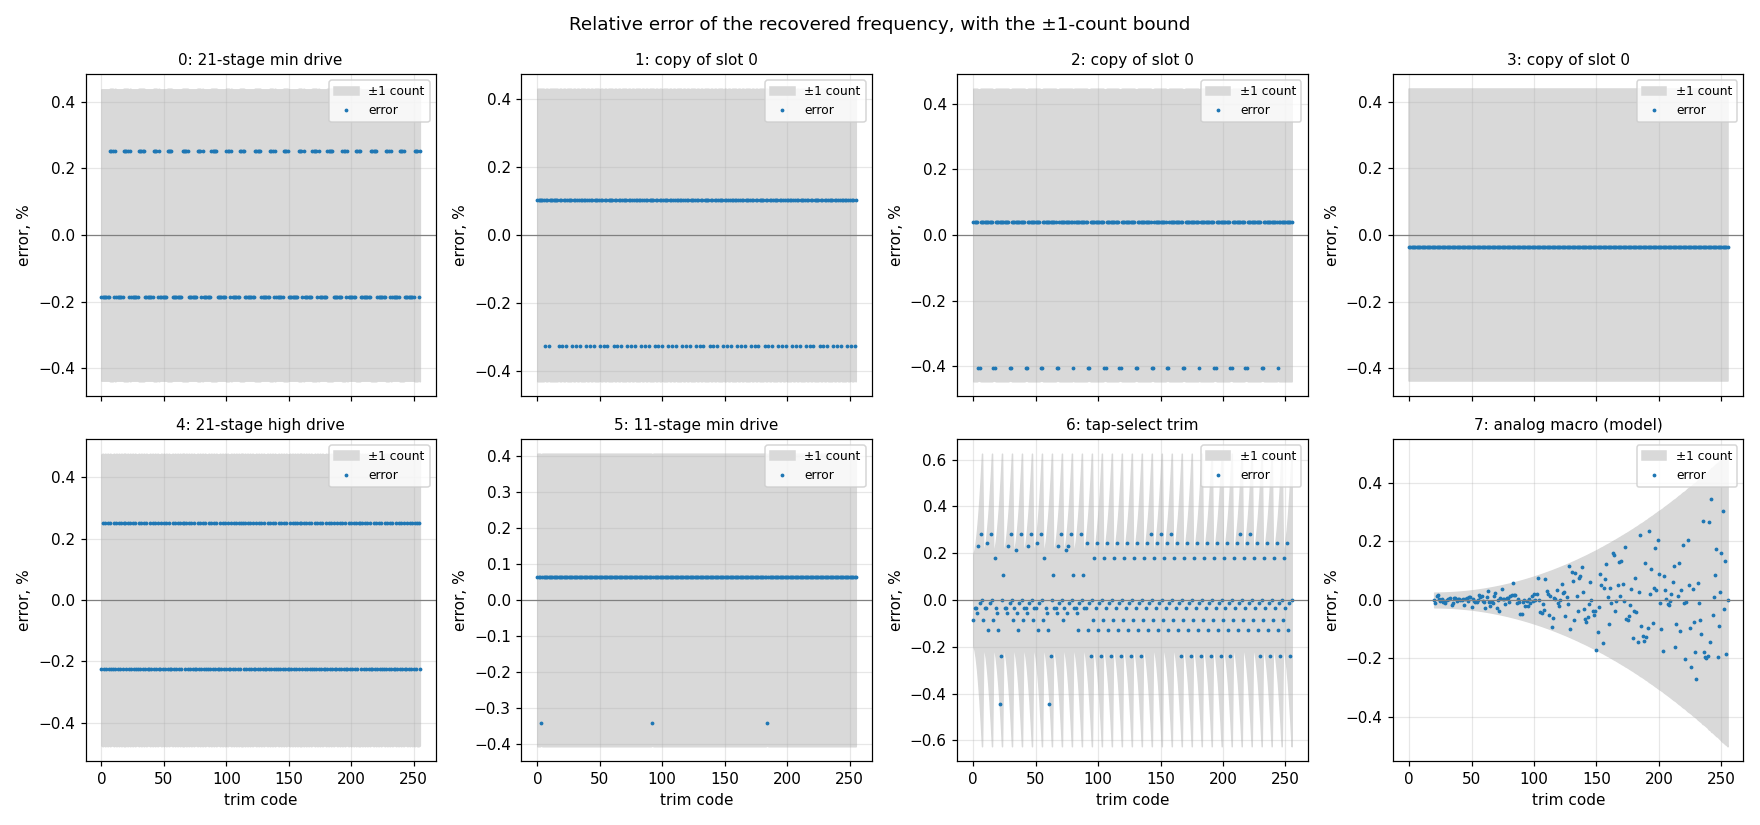
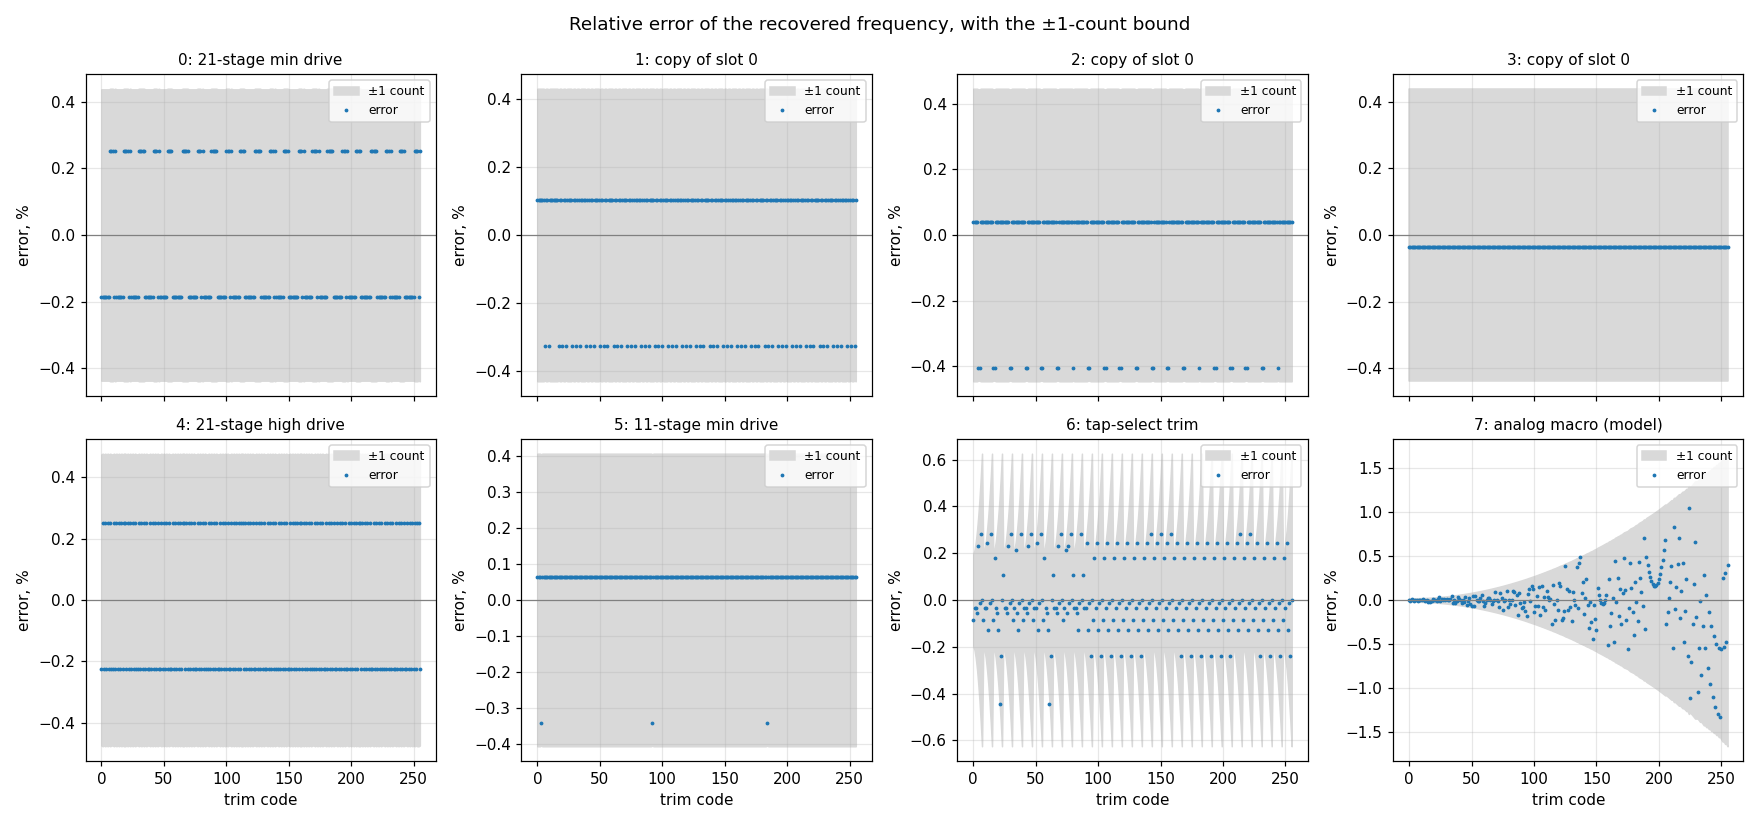
Verification scripts: low-frequency noise band, tempco units, re-analysis mode; layout notes on bias flicker; sweep plots for the macro model
Claude-Session: https://claude.ai/code/session_015Tacz89PxZ2SXmV2nwrvNE

Changed region(s): [[0.8125, 0.6364, 1.0, 0.8182]]

diff --git a/analog/verify/bias.py b/analog/verify/bias.py
@@ -103,6 +103,14 @@ noise v(vbp) Vdd dec 10 1k 1G
 setplot noise8
 let vbp_tot_1k = onoise_total
 echo "vbp_1kHz=$&vbp_tot_1k"
+noise v(vbn) Vdd dec 10 1k 1Meg
+setplot noise10
+let vbn_lf = onoise_total
+echo "vbn_lf=$&vbn_lf"
+noise v(vbp) Vdd dec 10 1k 1Meg
+setplot noise12
+let vbp_lf = onoise_total
+echo "vbp_lf=$&vbp_lf"
 .endc
 .end
 """
@@ -201,24 +209,28 @@ def main():
         log, d = res[f"noise_code{k}"]
         vbn1, vbn1k = C.meas(log, "vbn_1Hz"), C.meas(log, "vbn_1kHz")
         vbp1, vbp1k = C.meas(log, "vbp_1Hz"), C.meas(log, "vbp_1kHz")
+        vbnlf, vbplf = C.meas(log, "vbn_lf"), C.meas(log, "vbp_lf")
         if vbn1k is None:
             print("noise failed at code", k, log[-500:]); continue
         # one LSB step of the same node, from the DC sweep
         d_vbn = abs(ref["vbn"][k + 1] - ref["vbn"][k]) if ref and k < 255 else abs(ref["vbn"][k] - ref["vbn"][k - 1])
         d_vbp = abs(ref["vbp"][k + 1] - ref["vbp"][k]) if ref and k < 255 else abs(ref["vbp"][k] - ref["vbp"][k - 1])
-        nrows.append([k, vbn1k * 1e6, vbn1 * 1e6, d_vbn * 1e3, 100 * vbn1k / d_vbn,
-                      vbp1k * 1e6, vbp1 * 1e6, d_vbp * 1e3, 100 * vbp1k / d_vbp])
+        nrows.append([k, vbn1k * 1e6, vbn1 * 1e6, vbnlf * 1e6, d_vbn * 1e3, 100 * vbn1k / d_vbn, 100 * vbnlf / d_vbn,
+                      vbp1k * 1e6, vbp1 * 1e6, vbplf * 1e6, d_vbp * 1e3, 100 * vbp1k / d_vbp, 100 * vbplf / d_vbp])
         try:
             spectra[k] = C.read_wrdata(os.path.join(d, "vbn_spec.txt"))
         except FileNotFoundError:
             pass
-    hdr = ["code", "vbn noise uVrms 1k-1G", "1-1G", "vbn LSB step mV", "noise/LSB % (1k-1G)",
-           "vbp noise uVrms 1k-1G", "1-1G", "vbp LSB step mV", "noise/LSB %"]
+    hdr = ["code", "vbn noise uVrms 1k-1G", "1-1G", "1k-1M", "vbn LSB step mV", "noise/LSB % (1k-1G)", "noise/LSB % (1k-1M)",
+           "vbp noise uVrms 1k-1G", "1-1G", "1k-1M", "vbp LSB step mV", "noise/LSB % (1k-1G)", "noise/LSB % (1k-1M)"]
     md.append("\n## Bias chain: noise at the bias nodes (typical, 27 C, 1.2 V)\n")
-    md.append(C.table(hdr, nrows, ["%d", "%.1f", "%.1f", "%.2f", "%.2f", "%.1f", "%.1f", "%.2f", "%.2f"]))
+    md.append(C.table(hdr, nrows, ["%d", "%.1f", "%.1f", "%.1f", "%.2f", "%.1f", "%.2f", "%.1f", "%.1f", "%.1f", "%.2f", "%.1f", "%.2f"]))
     md.append("\nIntegrated output noise (rms) of the bias nodes with the code held, from ngspice `.noise` (PSP thermal + flicker; ngspice reports onoise_total as the rms voltage). "
               "\"LSB step\" is how far the node moves for one code step at that code; noise/LSB is the rms noise as a "
-              "percentage of that step, i.e. how much of the 8-bit control the bias noise blurs.\n")
+              "percentage of that step. The 1 kHz-1 GHz figure is everything the node carries; most of it is white noise "
+              "above 1 MHz, which the ring turns into period jitter that a reciprocal count averages (ring.py measures "
+              "that directly). The 1 kHz-1 MHz figure is the slow part that behaves like a code error within one "
+              "measurement, and is the one to compare with a code step.\n")
     C.write_csv(os.path.join(C.OUT, "bias_noise.csv"), hdr, nrows)
 
     # ---- figure -----------------------------------------------------------------

diff --git a/analog/verify/ring.py b/analog/verify/ring.py
@@ -64,9 +64,9 @@ def dut_exposed(mismatch=False):
     return f".include {dst}\n"
 
 
-def deck(models, vdd, code, mismatch=False, expose=False, noise_ina=None, noise_nt=None, n_run=N_RUN, n_meas=N_MEAS):
+def deck(models, vdd, code, mismatch=False, expose=False, noise_ina=None, noise_nt=None, n_run=N_RUN, n_meas=N_MEAS, step_div=150):
     T = 1 / C.f_nom(code)
-    t_en, tstop, tmeas, step = N_HOLD * T, n_run * T, (n_run - n_meas) * T, T / 150
+    t_en, tstop, tmeas, step = N_HOLD * T, n_run * T, (n_run - n_meas) * T, T / step_div
     ports = f"{C.CODE_PORTS} enable clk_out VPWR 0" + (" vbp vbn" if expose else "")
     inc = dut_exposed(mismatch) if expose else C.dut(mismatch)
     noise = f"Inz 0 vbp trnoise({noise_ina:.4g} {noise_nt:.4g} 0 0)\n" if noise_ina else ""
@@ -210,7 +210,7 @@ def main():
                     push.append([k, lo["f"] / 1e6, mid["f"] / 1e6, hi["f"] / 1e6, 100 * (hi["f"] - lo["f"]) / mid["f"] / 0.24])
                 tc = table.get((C.pvt_name(c, -40, 1.2), k)); th = table.get((C.pvt_name(c, 125, 1.2), k))
                 if tc and th and mid:
-                    push[-1] += [tc["f"] / 1e6, th["f"] / 1e6, 1e4 * (th["f"] - tc["f"]) / mid["f"] / 165]
+                    push[-1] += [tc["f"] / 1e6, th["f"] / 1e6, 1e6 * (th["f"] - tc["f"]) / mid["f"] / 165]
         md.append("\n**Supply pushing and temperature coefficient** (typical process):\n")
         md.append(C.table(["code", "f @1.08 V", "f @1.20 V", "f @1.32 V", "%/V", "f @-40 C", "f @125 C", "ppm/C"],
                           push, ["%d", "%.1f", "%.1f", "%.1f", "%.1f", "%.1f", "%.1f", "%.0f"]))
@@ -356,8 +356,8 @@ wrdata sv.txt onoise_spectrum
             nt = T / 50
             ina = inj[k][0] / (2 * nt) ** 0.5           # one-sided PSD S = 2 NA^2 NT
             n_run = 640
-            decks[f"tj_code{k}_noise"] = deck(C.corner(), 1.2, k, expose=True, noise_ina=ina, noise_nt=nt, n_run=n_run, n_meas=600)
-            decks[f"tj_code{k}_quiet"] = deck(C.corner(), 1.2, k, expose=True, noise_ina=None, noise_nt=nt, n_run=n_run, n_meas=600)
+            decks[f"tj_code{k}_noise"] = deck(C.corner(), 1.2, k, expose=True, noise_ina=ina, noise_nt=nt, n_run=n_run, n_meas=600, step_div=600)
+            decks[f"tj_code{k}_quiet"] = deck(C.corner(), 1.2, k, expose=True, noise_ina=None, noise_nt=nt, n_run=n_run, n_meas=600, step_div=600)
         res = C.run_decks(decks, a.jobs, tag="ring_jitter")
         jrows = []
         for k in CODES_NOISE:

diff --git a/analog/verify/common.py b/analog/verify/common.py
@@ -19,7 +19,8 @@ share, so each test file is only the circuit and the measurements.
                        mm_ok=1 on every finger so mismatch applies to it
     code_bits(...)     eight B-sources that turn one swept voltage into the
                        binary code, so a single .dc runs all 256 codes
-    run_decks(...)     the parallel ngspice runner
+    run_decks(...)     the parallel ngspice runner (VERIFY_REUSE=1 re-reads
+                       finished runs whose deck is unchanged, for re-analysis)
     meas(...)          read `name = value` lines out of a log
     table(...)         a Markdown table from rows
 """
@@ -141,11 +142,16 @@ def run_decks(decks, jobs=None, tag=""):
         d = os.path.join(base, name)
         os.makedirs(d, exist_ok=True)
         path = os.path.join(d, "deck.spice")
+        logpath = os.path.join(d, "ngspice.log")
+        # VERIFY_REUSE=1: re-analyse finished runs instead of simulating again
+        if os.environ.get("VERIFY_REUSE") and os.path.exists(logpath) and \
+                os.path.exists(path) and open(path).read() == text:
+            return name, (open(logpath).read(), d)
         with open(path, "w") as fh:
             fh.write(text)
         p = subprocess.run(["ngspice", "-b", "deck.spice"], capture_output=True, text=True, cwd=d)
         log = p.stdout + p.stderr
-        with open(os.path.join(d, "ngspice.log"), "w") as fh:
+        with open(logpath, "w") as fh:
             fh.write(log)
         return name, (log, d)
 

diff --git a/docs/analog_layout_notes.md b/docs/analog_layout_notes.md
@@ -167,6 +167,18 @@ percent at the codes that matter (`analog_verification_results.md`, bias
 chain). Unequal stage currents change the duty cycle slightly and the
 frequency to second order; nothing depends on the ratio being exactly 48.
 
+**Concern: flicker noise of the small bias devices.** MND and MPM are single
+0.5 um and 1 um fingers of L = 0.5 um. Their flicker noise appears directly
+on `vbn`: the verification finds about 110-125 uV rms of slow (1 kHz-1 MHz)
+noise on `vbn` at every code, which at the top codes is a quarter of one
+code step of that node (the fast, white part is far larger but becomes
+period jitter that the counter averages). *Assessment:* it is the largest
+noise term in the block, worth roughly a tenth of an LSB in frequency at
+the top codes and far less at the bottom, and it is slow enough that
+repeated measurements average it. *Mitigation next time:* make MND and MPM
+several times wider and longer at the same ratio (flicker noise scales as
+1/WL, and the bias chain has area to spare beside the diode).
+
 **The internal strap bug.** The PMOS PCell's source/drain columns are
 strapped along one edge of the device; the first version strapped along the
 edge that joins the *other* set of columns. DRC is silent about this: it is
